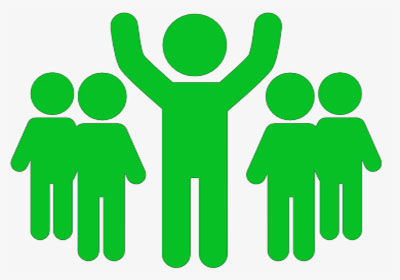
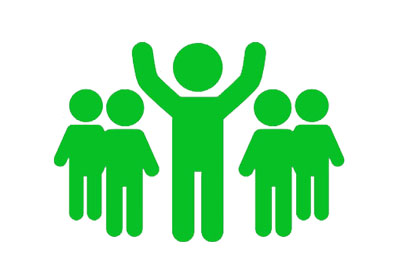
Image size changes and button added under each descriptor

diff --git a/index.html b/index.html
@@ -340,6 +340,12 @@
             <div class="portfolio-caption">
               <h4>Presentation Skills</h4>
               <p class="text-muted">The Essentials</p>
+              <a
+              data-toggle="modal"
+              href="#portfolioModal1"
+            >
+            <button type="button" class="btn btn-success">Detail</button>
+              </a>
             </div>
           </div>
           <div class="col-md-4 col-sm-6 portfolio-item">
@@ -362,6 +368,12 @@
             <div class="portfolio-caption">
               <h4>Presentation Skills</h4>
               <p class="text-muted">Beyond the Essentials</p>
+              <a
+              data-toggle="modal"
+              href="#portfolioModal2"
+            >
+            <button type="button" class="btn btn-success">Detail</button>
+              </a>
             </div>
           </div>
           <div class="col-md-4 col-sm-6 portfolio-item">
@@ -384,6 +396,12 @@
             <div class="portfolio-caption">
               <h4>Communication</h4>
               <p class="text-muted">Writing to get your Message Across</p>
+              <a
+              data-toggle="modal"
+              href="#portfolioModal3"
+            >
+            <button type="button" class="btn btn-success">Detail</button>
+              </a>
             </div>
           </div>
           <div class="col-md-4 col-sm-6 portfolio-item">
@@ -406,6 +424,12 @@
             <div class="portfolio-caption">
               <h4>Communication</h4>
               <p class="text-muted">Writing beyond the essentials</p>
+              <a
+              data-toggle="modal"
+              href="#portfolioModal4"
+            >
+            <button type="button" class="btn btn-success">Detail</button>
+              </a>
             </div>
           </div>
           <div class="col-md-4 col-sm-6 portfolio-item">
@@ -428,6 +452,12 @@
             <div class="portfolio-caption">
               <h4>Meeting Skills</h4>
               <p class="text-muted">Leading a meeting: getting the best results</p>
+              <a
+              data-toggle="modal"
+              href="#portfolioModal5"
+            >
+            <button type="button" class="btn btn-success">Detail</button>
+              </a>
             </div>
           </div>
           <div class="col-md-4 col-sm-6 portfolio-item">
@@ -450,6 +480,12 @@
             <div class="portfolio-caption">
               <h4>Negotiation Skills </h4>
               <p class="text-muted">The Essentials</p>
+              <a
+              data-toggle="modal"
+              href="#portfolioModal6"
+            >
+            <button type="button" class="btn btn-success">Detail</button>
+              </a>
             </div>
           </div>
           <div class="col-md-4 col-sm-6 portfolio-item">
@@ -472,6 +508,12 @@
             <div class="portfolio-caption">
               <h4>Leadership Skills</h4>
               <p class="text-muted"> Be what every team needs</p>
+              <a
+              data-toggle="modal"
+              href="#portfolioModal7"
+            >
+            <button type="button" class="btn btn-success">Detail</button>
+              </a>
 
             </div>
           </div>
@@ -495,6 +537,12 @@
             <div class="portfolio-caption">
               <h4>Public Speaking and Special Occasion Speeches</h4>
               <p class="text-muted">Seeing the best of you!</p>
+              <a
+              data-toggle="modal"
+              href="#portfolioModal8"
+            >
+            <button type="button" class="btn btn-success">Detail</button>
+              </a>
             </div>
           </div>
           <div class="col-md-4 col-sm-6 portfolio-item">
@@ -517,6 +565,12 @@
             <div class="portfolio-caption">
               <h4>Get that job!</h4>
               <p class="text-muted">interview and job application skills</p>
+              <a
+              data-toggle="modal"
+              href="#portfolioModal9"
+            >
+            <button type="button" class="btn btn-success">Detail</button>
+              </a>
             </div>
           </div>
           <div class="col-md-4 col-sm-6 portfolio-item">
@@ -539,6 +593,12 @@
             <div class="portfolio-caption">
               <h4>Administration skills</h4>
               <p class="text-muted">Making things work</p>
+              <a
+              data-toggle="modal"
+              href="#portfolioModal10"
+            >
+            <button type="button" class="btn btn-success">Detail</button>
+              </a>
             </div>
           </div>
           <div class="col-md-4 col-sm-6 portfolio-item">
@@ -561,6 +621,12 @@
             <div class="portfolio-caption">
               <h4>Customer Service</h4>
               <p class="text-muted">Personal effectiveness: making a difference</p>
+              <a
+              data-toggle="modal"
+              href="#portfolioModal11w"
+            >
+            <button type="button" class="btn btn-success">Detail</button>
+              </a>
             </div>
           </div>
         </div>
